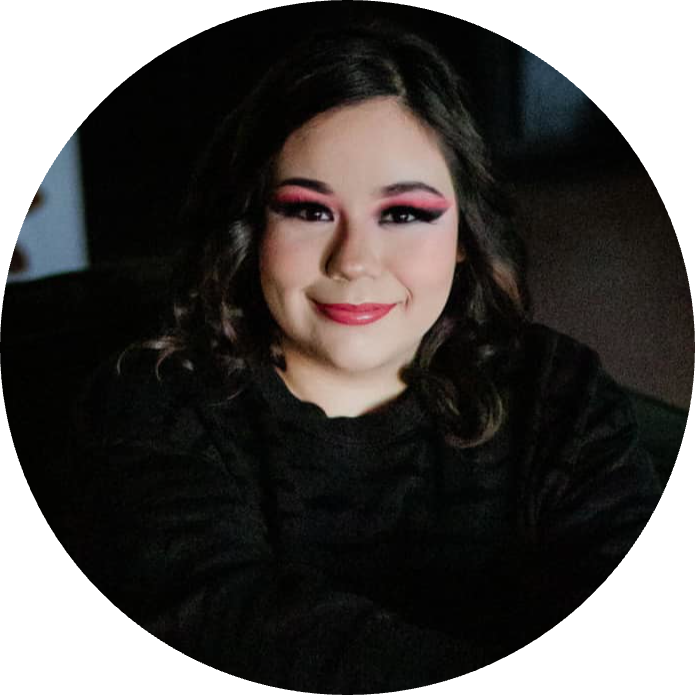
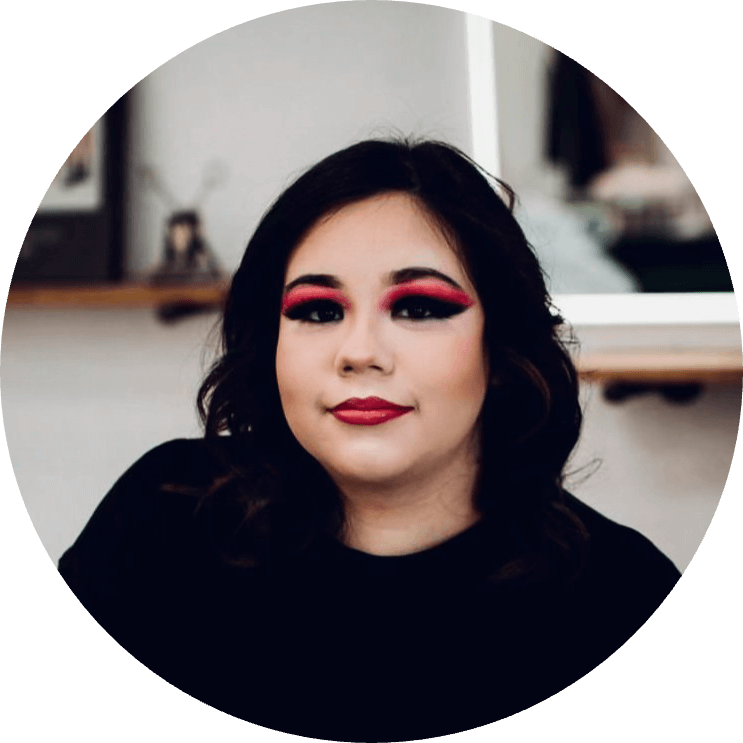
Daleth has images, missing gallery images. Photos are optimized

diff --git a/src/Components/HomePage/MeetOurTeam.js b/src/Components/HomePage/MeetOurTeam.js
@@ -461,7 +461,7 @@ function MeetOurTeam() {
                     onClick={() => handleTeamMemberClick({
                         name: 'Daleth',
                         title: 'Barber | Child Friendly',
-                        image: '/images/daleth/pro-photo/daleth.png',
+                        image: '/images/daleth/pro-photo/daleth__mobile.png',
                         desktopBio: {
                                 paragraph1: "Meet Daleth Vargas, a talented cosmetologist at our salon, known for her exceptional skill and dedication to the art of hair styling. With five years of experience in the beauty industry, Daleth has honed her expertise, specializing in men's and children's haircuts. Her approach to cosmetology blends classic techniques with contemporary style, ensuring each client leaves looking their best.",
                                 paragraph2: "Daleth's journey in the world of cosmetology is marked by a passion for bringing out the best in her clients, regardless of their age or style preferences. Her ability to connect with children and make them comfortable during their haircuts is particularly noteworthy. She understands that a haircut can be more than just a routine grooming experience; it's an opportunity to boost confidence and express individuality.",
@@ -507,7 +507,7 @@ function MeetOurTeam() {
                             }
                         }
                     })}>                    
-                    <Link to={'/meet-our-team/rajani'}>
+                    <Link to={'/meet-our-team/daleth'}>
                         <img className='personal__img' src="/images/daleth/pro-photo/daleth.png" alt="daleth" />
                     </Link>
                     <p>Daleth</p>
